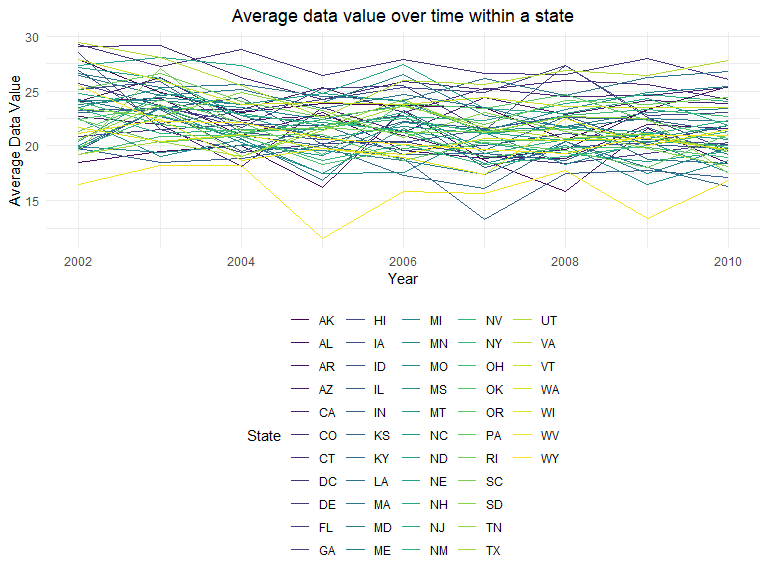
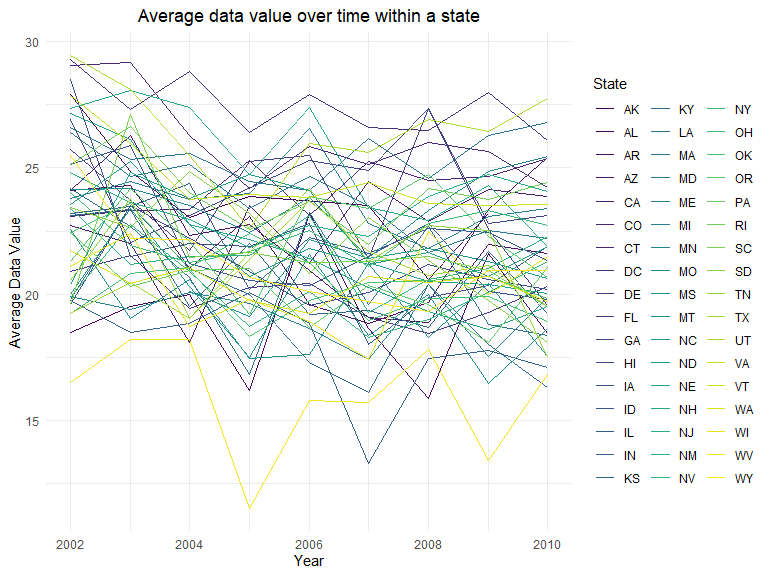
correct typo

diff --git a/p8105_hw3_sc5126.md b/p8105_hw3_sc5126.md
@@ -8,14 +8,14 @@ Si Chen
 **Load data & data cleaning**
 
 ``` r
-data("brfss_smart2010")
+# data("brfss_smart2010")
 smart = 
   brfss_smart2010 %>% 
   janitor::clean_names() %>% 
   filter(topic == "Overall Health") %>% 
-  filter(response %in% c("Excellent", "Poor")) %>% 
+  filter(response %in% c('Poor','Fair', 'Good', 'Very good','Excellent')) %>% 
   mutate(
-    response = forcats::fct_relevel(as.factor(response), c("Poor", "Excellent"))
+    response = forcats::fct_relevel(as.factor(response), c('Poor','Fair', 'Good', 'Very good','Excellent'))
   )
 ```
 
@@ -79,7 +79,8 @@ observed at 7 or more locations.
 
 ``` r
 # Construct a dataset that is limited to Excellent responses, and contains, year, state, and a variable that averages the data_value across locations within a state. 
-#Make a “spaghetti” plot of this average value over time within a state (that is, make a plot showing a line for each state across years – the geom_line geometry and group aesthetic will help).
+# Make a “spaghetti” plot of this average value over time within a state 
+# (that is, make a plot showing a line for each state across years – the geom_line geometry and group aesthetic will help).
 
 smart_exe_avg = 
   smart %>% 
@@ -112,7 +113,7 @@ smart_exe %>%
   ylab("Average Data Value") +
   labs(color = "State")+
   ggtitle("Average data value over time within a state")+
-  theme(legend.position = "bottom", plot.title = element_text(hjust=0.5))
+  theme(legend.position = "right", plot.title = element_text(hjust=0.5))
 ```
 
 <img src="p8105_hw3_sc5126_files/figure-gfm/plot-1.png" width="90%" />
